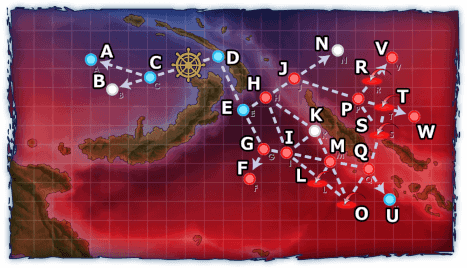
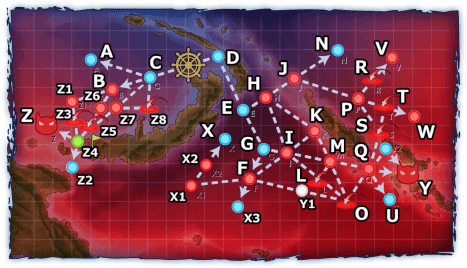
E5マス判定追加

diff --git a/js/data.js b/js/data.js
@@ -15,8 +15,8 @@ const PLANE_TYPE = [
 	{ id: 102, name: "陸軍戦闘機", abbr: "陸戦", css: "css_lb_fighter" },
 	{ id: 103, name: "局地戦闘機", abbr: "局戦", css: "css_lb_attack_aircraft" },
 	{ id: 104, name: "陸上偵察機", abbr: "陸偵", css: "css_cb_reconnaissance" },
-];
-const PLANE_DATA = [
+ ];
+ const PLANE_DATA = [
 	{ id: 19, type: 1, name: "九六式艦戦", abbr: "", fire: 0, antiAir: 3, torpedo: 0, bomber: 0, armor: 0, asw: 0, antiBomber: 0, interception: 0, scout: 0, canRemodel: 1, accuracy: 0, avoid2: 1, radius: 3, cost: 3, avoid: 0 },
 	{ id: 20, type: 1, name: "零式艦戦21型", abbr: "", fire: 0, antiAir: 5, torpedo: 0, bomber: 0, armor: 0, asw: 0, antiBomber: 0, interception: 0, scout: 0, canRemodel: 1, accuracy: 0, avoid2: 0, radius: 7, cost: 4, avoid: 0 },
 	{ id: 21, type: 1, name: "零式艦戦52型", abbr: "", fire: 0, antiAir: 6, torpedo: 0, bomber: 0, armor: 0, asw: 0, antiBomber: 0, interception: 0, scout: 0, canRemodel: 1, accuracy: 0, avoid2: 0, radius: 6, cost: 5, avoid: 0 },
@@ -178,8 +178,8 @@ const PLANE_DATA = [
 	{ id: 354, type: 103, name: "Fw190 D-9", abbr: "", fire: 2, antiAir: 12, torpedo: 0, bomber: 0, armor: 0, asw: 0, antiBomber: 3, interception: 3, scout: 0, canRemodel: 0, accuracy: 0, avoid2: 0, radius: 3, cost: 8, avoid: 0 },
 	{ id: 311, type: 104, name: "二式陸上偵察機", abbr: "", fire: 0, antiAir: 3, torpedo: 0, bomber: 0, armor: 0, asw: 0, antiBomber: 0, interception: 0, scout: 8, canRemodel: 0, accuracy: 2, avoid2: 0, radius: 8, cost: 7, avoid: 0 },
 	{ id: 312, type: 104, name: "二式陸上偵察機(熟練)", abbr: "", fire: 0, antiAir: 3, torpedo: 0, bomber: 0, armor: 1, asw: 0, antiBomber: 0, interception: 0, scout: 9, canRemodel: 1, accuracy: 3, avoid2: 0, radius: 9, cost: 7, avoid: 0 },
-];
-const SHIP_TYPE = [
+ ];
+ const SHIP_TYPE = [
 	{ id: 1, name: "正規空母" },
 	{ id: 2, name: "装甲空母" },
 	{ id: 3, name: "軽空母" },
@@ -200,8 +200,8 @@ const SHIP_TYPE = [
 	{ id: 18, name: "潜水艦" },
 	{ id: 19, name: "海防艦" },
 	{ id: 20, name: "工作艦" },
-];
-const SHIP_DATA = [
+ ];
+ const SHIP_DATA = [
 	{ id: 6, type: 1, name: "赤城", slot: [18, 18, 27, 10], final: 0, orig: 6, deckid: 83 },
 	{ id: 7, type: 1, name: "加賀", slot: [18, 18, 45, 12], final: 0, orig: 7, deckid: 84 },
 	{ id: 8, type: 1, name: "蒼龍", slot: [12, 27, 18, 7], final: 0, orig: 8, deckid: 90 },
@@ -352,8 +352,8 @@ const SHIP_DATA = [
 	{ id: 1501, type: 12, name: "伊19改", slot: [1, 1], final: 1, orig: 123, deckid: 401 },
 	{ id: 1503, type: 12, name: "伊401改", slot: [3, 3], final: 1, orig: 155, deckid: 403 },
 	{ id: 1506, type: 12, name: "伊400改", slot: [3, 3], final: 1, orig: 293, deckid: 606 },
-];
-const ENEMY_TYPE = [
+ ];
+ const ENEMY_TYPE = [
 	{ id: 11, name: "正規空母" },
 	{ id: 12, name: "軽空母" },
 	{ id: 13, name: "戦艦" },
@@ -367,8 +367,8 @@ const ENEMY_TYPE = [
 	{ id: 21, name: "浮遊/護衛 要塞" },
 	{ id: 1, name: "鬼/姫" },
 	{ id: 2, name: "地上施設" },
-];
-const ENEMY_DATA = [
+ ];
+ const ENEMY_DATA = [
 	{ id: -1, type: [11, 12, 13, 14, 15, 16, 17, 18, 19, 20, 21, 1, 2], name: "直接入力", slot: [], eqp: [], orig: -1, aaw: 0, aabo: 0 },
 	{ id: 1, type: [16], name: "駆逐イ級", slot: [], eqp: [], orig: 1, aaw: 4, aabo: 0 },
 	{ id: 2, type: [16], name: "駆逐ロ級", slot: [], eqp: [], orig: 2, aaw: 4, aabo: 0 },
@@ -704,8 +704,8 @@ const ENEMY_DATA = [
 	{ id: 476, type: [1, 11], name: "南太平洋空母棲姫-壊 [甲]", slot: [], eqp: [], orig: 0, aaw: 26, aabo: 4 },
 	{ id: 477, type: [1, 18], name: "潜水夏姫IIfragship", slot: [], eqp: [], orig: 477, aaw: 0, aabo: 0 },
 	{ id: 478, type: [1, 18], name: "潜水夏姫IIfragship", slot: [], eqp: [], orig: 478, aaw: 0, aabo: 0 },
-];
-const ENEMY_PLANE_DATA = [
+ ];
+ const ENEMY_PLANE_DATA = [
 	{ id: 519, type: 1, name: "深海棲艦戦", antiAir: 2, torpedo: 0, bomber: 0 },
 	{ id: 520, type: 1, name: "深海棲艦戦 Mark.II", antiAir: 5, torpedo: 0, bomber: 0 },
 	{ id: 521, type: 1, name: "深海棲艦戦 Mark.III", antiAir: 9, torpedo: 0, bomber: 0 },
@@ -744,15 +744,15 @@ const ENEMY_PLANE_DATA = [
 	{ id: 555, type: 6, name: "深海水上攻撃機改", antiAir: 9, torpedo: 0, bomber: 13 },
 	{ id: 571, type: 6, name: "深海水母小鬼機", antiAir: 11, torpedo: 0, bomber: 15 },
 	{ id: 573, type: 6, name: "深海潜水下駄履き", antiAir: 6, torpedo: 0, bomber: 18 },
-];
-const DIFFICULTY = [
+ ];
+ const DIFFICULTY = [
 	{ id: -1, name: "-" },
 	{ id: 0, name: "丁" },
 	{ id: 1, name: "丙" },
 	{ id: 2, name: "乙" },
 	{ id: 3, name: "甲" },
-];
-const WORLD_DATA = [
+ ];
+ const WORLD_DATA = [
 	{ world: 2006, name: "侵攻阻止！島嶼防衛強化作戦(2020梅雨イベ)" },
 	{ world: 1, name: "鎮守府海域" },
 	{ world: 2, name: "南西諸島海域" },
@@ -763,8 +763,8 @@ const WORLD_DATA = [
 	{ world: 6, name: "中部海域" },
 	{ world: 1911, name: "進撃！第二次作戦「南方作戦」(2019秋イベ)" },
 	{ world: 2003, name: "桃の節句！沖に立つ波(ミニ期間限定海域)" },
-];
-const MAP_DATA = [
+ ];
+ const MAP_DATA = [
 	{ area: 11, name: "鎮守府正面海域" },
 	{ area: 12, name: "南西諸島沖" },
 	{ area: 13, name: "製油所地帯沿岸" },
@@ -812,8 +812,8 @@ const MAP_DATA = [
 	{ area: 20065, name: "ニューブリテン島沖/ソロモン諸島西部沖" },
 	{ area: 20066, name: "ソロモン諸島沖" },
 	{ area: 20067, name: "ソロモン諸島沖" },
-];
-const ENEMY_PATTERN = [
+ ];
+ const ENEMY_PATTERN = [
 	{ a: 11, n: "A", d: "", l: -1, t: 1, f: 1, r: 0, e: [1], c: "219,112,246,149" },
 	{ a: 11, n: "A", d: "", l: -1, t: 1, f: 1, r: 0, e: [2], c: "219,112,246,149" },
 	{ a: 11, n: "A", d: "", l: -1, t: 1, f: 1, r: 0, e: [3], c: "219,112,246,149" },
@@ -2026,113 +2026,113 @@ const ENEMY_PATTERN = [
 	{ a: 20064, n: "空襲", d: "", l: 0, t: 5, f: 3, r: 1, e: [445, 28, 25, 24, 24, 94], c: "146, 185, 166, 205" },
 	{ a: 20064, n: "空襲", d: "", l: 0, t: 5, f: 3, r: 1, e: [445, 25, 25, 24, 24, 94], c: "146, 185, 166, 205" },
 	{ a: 20064, n: "空襲", d: "最終", l: 0, t: 5, f: 3, r: 1, e: [448, 28, 25, 29, 29, 95], c: "146, 185, 166, 205" },
-	{ a: 20065, n: "B", d: "", l: 3, t: 1, f: 1, r: 3, e: [54, 92, 92, 77, 77, 77], c: "" },
-	{ a: 20065, n: "B", d: "", l: 2, t: 1, f: 4, r: 3, e: [54, 91, 91, 77, 77, 1], c: "" },
-	{ a: 20065, n: "B", d: "", l: 1, t: 1, f: 4, r: 3, e: [54, 91, 77, 1, 1, 1], c: "" },
-	{ a: 20065, n: "B", d: "", l: 0, t: 1, f: 4, r: 3, e: [54, 77, 1, 1, 1, 1], c: "" },
-	{ a: 20065, n: "F", d: "", l: 3, t: 1, f: 4, r: 4, e: [72, 71, 71, 71], c: "" },
-	{ a: 20065, n: "F", d: "", l: 2, t: 1, f: 4, r: 4, e: [72, 71, 71], c: "" },
-	{ a: 20065, n: "F", d: "", l: 1, t: 1, f: 4, r: 4, e: [71, 71, 30], c: "" },
-	{ a: 20065, n: "F", d: "", l: 0, t: 1, f: 4, r: 4, e: [71, 70, 30], c: "" },
-	{ a: 20065, n: "H", d: "", l: 3, t: 1, f: 4, r: 2, e: [72, 71, 71, 71], c: "" },
-	{ a: 20065, n: "H", d: "", l: 2, t: 1, f: 4, r: 2, e: [72, 71, 71], c: "" },
-	{ a: 20065, n: "H", d: "", l: 1, t: 1, f: 4, r: 2, e: [71, 71, 30], c: "" },
-	{ a: 20065, n: "H", d: "", l: 0, t: 1, f: 4, r: 2, e: [71, 70, 30], c: "" },
-	{ a: 20065, n: "I", d: "", l: 3, t: 1, f: 4, r: 4, e: [72, 71, 71, 71], c: "" },
-	{ a: 20065, n: "I", d: "", l: 2, t: 1, f: 4, r: 4, e: [72, 71, 71], c: "" },
-	{ a: 20065, n: "I", d: "", l: 1, t: 1, f: 4, r: 4, e: [71, 71, 30], c: "" },
-	{ a: 20065, n: "I", d: "", l: 0, t: 1, f: 4, r: 4, e: [71, 70, 30], c: "" },
-	{ a: 20065, n: "J", d: "", l: 3, t: 1, f: 2, r: 3, e: [54, 59, 59, 92, 77, 77], c: "" },
-	{ a: 20065, n: "J", d: "", l: 2, t: 1, f: 2, r: 3, e: [54, 21, 21, 91, 77, 77], c: "" },
-	{ a: 20065, n: "J", d: "", l: 1, t: 1, f: 2, r: 3, e: [54, 21, 21, 91, 77, 1], c: "" },
-	{ a: 20065, n: "J", d: "", l: 0, t: 1, f: 2, r: 3, e: [54, 21, 21, 77, 1, 1], c: "" },
-	{ a: 20065, n: "K", d: "", l: 3, t: 1, f: 2, r: 4, e: [54, 77, 77, 76, 76, 76], c: "" },
-	{ a: 20065, n: "K", d: "", l: 2, t: 1, f: 2, r: 4, e: [54, 77, 76, 76, 1, 1], c: "" },
-	{ a: 20065, n: "K", d: "", l: 1, t: 1, f: 2, r: 4, e: [54, 76, 76, 1, 1], c: "" },
-	{ a: 20065, n: "K", d: "", l: 0, t: 1, f: 2, r: 4, e: [54, 76, 1, 1], c: "" },
-	{ a: 20065, n: "L", d: "", l: 3, t: 3, f: 3, r: 0, e: [152, 151, 151], c: "" },
-	{ a: 20065, n: "L", d: "", l: 3, t: 3, f: 3, r: 0, e: [151, 151, 150], c: "" },
-	{ a: 20065, n: "L", d: "", l: 2, t: 3, f: 3, r: 0, e: [151, 150], c: "" },
-	{ a: 20065, n: "L", d: "", l: 1, t: 3, f: 3, r: 0, e: [151, 150], c: "" },
-	{ a: 20065, n: "L", d: "", l: 0, t: 3, f: 3, r: 0, e: [150, 150], c: "" },
-	{ a: 20065, n: "M", d: "", l: 3, t: 1, f: 2, r: 0, e: [59, 59, 92, 77, 77, 1], c: "" },
-	{ a: 20065, n: "M", d: "", l: 2, t: 1, f: 2, r: 0, e: [21, 21, 91, 77, 77, 1], c: "" },
-	{ a: 20065, n: "M", d: "", l: 1, t: 1, f: 2, r: 0, e: [21, 21, 91, 77, 1, 1], c: "" },
-	{ a: 20065, n: "M", d: "", l: 0, t: 1, f: 2, r: 0, e: [21, 21, 77, 1, 1, 1], c: "" },
-	{ a: 20065, n: "O", d: "", l: 3, t: 3, f: 3, r: 6, e: [151, 151, 151], c: "" },
-	{ a: 20065, n: "O", d: "", l: 3, t: 3, f: 3, r: 6, e: [151, 151, 150], c: "" },
-	{ a: 20065, n: "O", d: "", l: 2, t: 3, f: 3, r: 6, e: [151, 150, 150], c: "" },
-	{ a: 20065, n: "O", d: "", l: 1, t: 3, f: 3, r: 6, e: [151, 150], c: "" },
-	{ a: 20065, n: "O", d: "", l: 0, t: 3, f: 3, r: 6, e: [150, 150], c: "" },
-	{ a: 20065, n: "P", d: "", l: 3, t: 1, f: 2, r: 5, e: [54, 92, 95, 95, 77, 77], c: "" },
-	{ a: 20065, n: "P", d: "", l: 2, t: 1, f: 2, r: 5, e: [54, 91, 94, 94, 77, 77], c: "" },
-	{ a: 20065, n: "P", d: "", l: 1, t: 1, f: 2, r: 5, e: [54, 91, 94, 76, 76, 1], c: "" },
-	{ a: 20065, n: "P", d: "", l: 0, t: 1, f: 2, r: 5, e: [54, 91, 76, 1, 1, 1], c: "" },
-	{ a: 20065, n: "Q", d: "", l: 3, t: 1, f: 4, r: 6, e: [55, 92, 54, 77, 77, 77], c: "" },
-	{ a: 20065, n: "Q", d: "", l: 2, t: 1, f: 4, r: 6, e: [55, 92, 18, 76, 76, 1], c: "" },
-	{ a: 20065, n: "Q", d: "", l: 1, t: 1, f: 4, r: 6, e: [19, 91, 18, 76, 76, 1], c: "" },
-	{ a: 20065, n: "Q", d: "", l: 0, t: 1, f: 4, r: 6, e: [19, 21, 21, 76, 1, 1], c: "" },
-	{ a: 20065, n: "R", d: "", l: 3, t: 3, f: 3, r: 6, e: [266, 266, 276, 362, 123, 123], c: "" },
-	{ a: 20065, n: "R", d: "", l: 3, t: 3, f: 3, r: 6, e: [266, 266, 405, 362, 123, 123], c: "" },
-	{ a: 20065, n: "R", d: "", l: 3, t: 3, f: 3, r: 6, e: [266, 276, 405, 362, 77, 77], c: "" },
-	{ a: 20065, n: "R", d: "", l: 2, t: 3, f: 3, r: 6, e: [265, 265, 55, 92, 77, 77], c: "" },
-	{ a: 20065, n: "R", d: "", l: 1, t: 3, f: 3, r: 6, e: [276, 276, 54, 91, 77, 77], c: "" },
-	{ a: 20065, n: "S", d: "", l: 3, t: 3, f: 3, r: 6, e: [151, 151, 150], c: "" },
-	{ a: 20065, n: "S", d: "", l: 1, t: 3, f: 3, r: 6, e: [151, 150], c: "" },
-	{ a: 20065, n: "S", d: "", l: 0, t: 3, f: 3, r: 6, e: [150, 150], c: "" },
-	{ a: 20065, n: "T", d: "", l: 3, t: 3, f: 3, r: 6, e: [266, 266, 276, 362, 123, 123], c: "" },
-	{ a: 20065, n: "T", d: "", l: 3, t: 3, f: 3, r: 6, e: [266, 266, 405, 362, 77, 77], c: "" },
-	{ a: 20065, n: "T", d: "", l: 3, t: 3, f: 3, r: 6, e: [266, 265, 405, 362, 77, 77], c: "" },
-	{ a: 20065, n: "T", d: "", l: 2, t: 3, f: 3, r: 6, e: [265, 276, 55, 92, 77, 77], c: "" },
-	{ a: 20065, n: "T", d: "", l: 1, t: 3, f: 3, r: 6, e: [276, 276, 54, 91, 77, 77], c: "" },
-	{ a: 20065, n: "T", d: "", l: 0, t: 3, f: 3, r: 6, e: [276, 23, 54, 91, 77, 1], c: "" },
-	{ a: 20065, n: "V", d: "", l: 3, t: 1, f: 3, r: 7, e: [266, 266, 405, 362, 123, 123], c: "" },
-	{ a: 20065, n: "V", d: "", l: 3, t: 1, f: 3, r: 7, e: [266, 265, 405, 362, 77, 77], c: "" },
-	{ a: 20065, n: "V", d: "", l: 2, t: 1, f: 3, r: 7, e: [265, 276, 55, 92, 77, 77], c: "" },
-	{ a: 20065, n: "V", d: "", l: 1, t: 1, f: 3, r: 7, e: [276, 276, 54, 91, 77, 77], c: "" },
-	{ a: 20065, n: "W", d: "", l: 3, t: 1, f: 3, r: 7, e: [266, 266, 405, 123, 123, 58], c: "" },
-	{ a: 20065, n: "W", d: "", l: 3, t: 1, f: 3, r: 7, e: [266, 265, 405, 77, 77, 58], c: "" },
-	{ a: 20065, n: "W", d: "", l: 2, t: 1, f: 3, r: 7, e: [265, 265, 55, 77, 77, 26], c: "" },
-	{ a: 20065, n: "W", d: "", l: 1, t: 1, f: 3, r: 7, e: [276, 276, 54, 77, 77, 26], c: "" },
-	{ a: 20065, n: "W", d: "", l: 0, t: 1, f: 3, r: 7, e: [276, 54, 77, 77, 1, 26], c: "" },
-	{ a: 20065, n: "X1", d: "", l: 3, t: 1, f: 4, r: 4, e: [72, 71, 71, 33, 33], c: "" },
-	{ a: 20065, n: "X1", d: "", l: 2, t: 1, f: 4, r: 4, e: [72, 71, 33, 33], c: "" },
-	{ a: 20065, n: "X1", d: "", l: 1, t: 1, f: 4, r: 4, e: [71, 33, 33, 30], c: "" },
-	{ a: 20065, n: "X1", d: "", l: 0, t: 1, f: 4, r: 4, e: [71, 30, 1, 1], c: "" },
-	{ a: 20065, n: "X2", d: "", l: 3, t: 1, f: 4, r: 3, e: [308, 72, 33, 33, 33], c: "" },
-	{ a: 20065, n: "X2", d: "", l: 2, t: 1, f: 4, r: 3, e: [307, 71, 33, 30], c: "" },
-	{ a: 20065, n: "X2", d: "", l: 1, t: 1, f: 4, r: 3, e: [306, 33, 33, 30, 30], c: "" },
-	{ a: 20065, n: "X2", d: "", l: 0, t: 1, f: 4, r: 3, e: [306, 30, 30], c: "" },
-	{ a: 20065, n: "Y", d: "前哨", l: 3, t: 1, f: 1, r: 7, e: [460, 55, 92, 451, 77, 77], c: "" },
-	{ a: 20065, n: "Y", d: "最終", l: 3, t: 1, f: 1, r: 7, e: [460, 55, 92, 92, 451, 451], c: "" },
-	{ a: 20065, n: "Y", d: "前哨", l: 2, t: 1, f: 1, r: 7, e: [459, 55, 91, 77, 77, 1], c: "" },
-	{ a: 20065, n: "Y", d: "最終", l: 2, t: 1, f: 1, r: 7, e: [459, 55, 91, 451, 77, 77], c: "" },
-	{ a: 20065, n: "Y", d: "前哨", l: 1, t: 1, f: 1, r: 7, e: [458, 55, 91, 77, 1, 1], c: "" },
-	{ a: 20065, n: "Y", d: "最終", l: 1, t: 1, f: 1, r: 7, e: [458, 55, 91, 77, 77, 1], c: "" },
-	{ a: 20065, n: "Y", d: "前哨", l: 0, t: 1, f: 1, r: 7, e: [457, 91, 76, 1, 1, 1], c: "" },
-	{ a: 20065, n: "Y", d: "最終", l: 0, t: 1, f: 1, r: 7, e: [457, 19, 76, 1, 1, 1], c: "" },
-	{ a: 20065, n: "Z", d: "", l: 3, t: 1, f: 1, r: 5, e: [456, 92, 451, 123, 123], c: "" },
-	{ a: 20065, n: "Z", d: "", l: 3, t: 1, f: 1, r: 5, e: [456, 92, 123, 77, 77], c: "" },
-	{ a: 20065, n: "Z", d: "", l: 2, t: 1, f: 1, r: 5, e: [455, 92, 77, 77, 77], c: "" },
-	{ a: 20065, n: "Z", d: "", l: 1, t: 1, f: 1, r: 5, e: [454, 91, 77, 77, 1], c: "" },
-	{ a: 20065, n: "Z", d: "", l: 0, t: 1, f: 1, r: 5, e: [453, 91, 77, 1, 1], c: "" },
-	{ a: 20065, n: "Z1", d: "", l: 3, t: 1, f: 1, r: 4, e: [54, 27, 27, 91, 77, 77], c: "" },
-	{ a: 20065, n: "Z1", d: "", l: 0, t: 1, f: 2, r: 4, e: [22, 91, 76, 1, 1, 1], c: "" },
-	{ a: 20065, n: "Z3", d: "", l: 3, t: 3, f: 3, r: 4, e: [151, 151, 150], c: "" },
-	{ a: 20065, n: "Z3", d: "", l: 3, t: 3, f: 3, r: 4, e: [151, 150, 150], c: "" },
-	{ a: 20065, n: "Z3", d: "", l: 0, t: 3, f: 3, r: 4, e: [150, 150], c: "" },
-	{ a: 20065, n: "Z5", d: "", l: 3, t: 3, f: 3, r: 4, e: [152, 151, 151], c: "" },
-	{ a: 20065, n: "Z5", d: "", l: 3, t: 3, f: 3, r: 4, e: [151, 151, 150], c: "" },
-	{ a: 20065, n: "Z5", d: "", l: 3, t: 3, f: 3, r: 4, e: [151, 150, 150], c: "" },
-	{ a: 20065, n: "Z5", d: "", l: 2, t: 3, f: 3, r: 4, e: [151, 150, 150], c: "" },
-	{ a: 20065, n: "Z5", d: "", l: 1, t: 3, f: 3, r: 4, e: [151, 150], c: "" },
-	{ a: 20065, n: "Z5", d: "", l: 0, t: 3, f: 3, r: 4, e: [150, 150], c: "" },
-	{ a: 20065, n: "Z6", d: "", l: 3, t: 1, f: 2, r: 4, e: [54, 92, 77, 77], c: "" },
-	{ a: 20065, n: "Z6", d: "", l: 2, t: 1, f: 2, r: 4, e: [54, 91, 77, 1], c: "" },
-	{ a: 20065, n: "Z6", d: "", l: 1, t: 1, f: 2, r: 4, e: [91, 76, 76, 1], c: "" },
-	{ a: 20065, n: "Z6", d: "", l: 0, t: 1, f: 2, r: 4, e: [18, 76, 1, 1], c: "" },
-	{ a: 20065, n: "Z7", d: "", l: 3, t: 1, f: 2, r: 4, e: [54, 92, 77, 77], c: "" },
-	{ a: 20065, n: "Z8", d: "", l: 3, t: 3, f: 3, r: 3, e: [151, 151, 151], c: "" },
+	{ a: 20065, n: "B", d: "", l: 3, t: 1, f: 1, r: 3, e: [54, 92, 92, 77, 77, 77], c: "101, 77, 121, 97" },
+	{ a: 20065, n: "B", d: "", l: 2, t: 1, f: 4, r: 3, e: [54, 91, 91, 77, 77, 1], c: "101, 77, 121, 97" },
+	{ a: 20065, n: "B", d: "", l: 1, t: 1, f: 4, r: 3, e: [54, 91, 77, 1, 1, 1], c: "101, 77, 121, 97" },
+	{ a: 20065, n: "B", d: "", l: 0, t: 1, f: 4, r: 3, e: [54, 77, 1, 1, 1, 1], c: "101, 77, 121, 97" },
+	{ a: 20065, n: "F", d: "", l: 3, t: 1, f: 4, r: 4, e: [72, 71, 71, 71], c: "239, 166, 259, 186" },
+	{ a: 20065, n: "F", d: "", l: 2, t: 1, f: 4, r: 4, e: [72, 71, 71], c: "239, 166, 259, 186" },
+	{ a: 20065, n: "F", d: "", l: 1, t: 1, f: 4, r: 4, e: [71, 71, 30], c: "239, 166, 259, 186" },
+	{ a: 20065, n: "F", d: "", l: 0, t: 1, f: 4, r: 4, e: [71, 70, 30], c: "239, 166, 259, 186" },
+	{ a: 20065, n: "H", d: "", l: 3, t: 1, f: 4, r: 2, e: [72, 71, 71, 71], c: "254, 85, 274, 105" },
+	{ a: 20065, n: "H", d: "", l: 2, t: 1, f: 4, r: 2, e: [72, 71, 71], c: "254, 85, 274, 105" },
+	{ a: 20065, n: "H", d: "", l: 1, t: 1, f: 4, r: 2, e: [71, 71, 30], c: "254, 85, 274, 105" },
+	{ a: 20065, n: "H", d: "", l: 0, t: 1, f: 4, r: 2, e: [71, 70, 30], c: "254, 85, 274, 105" },
+	{ a: 20065, n: "I", d: "", l: 3, t: 1, f: 4, r: 4, e: [72, 71, 71, 71], c: "275, 140, 295, 160" },
+	{ a: 20065, n: "I", d: "", l: 2, t: 1, f: 4, r: 4, e: [72, 71, 71], c: "275, 140, 295, 160" },
+	{ a: 20065, n: "I", d: "", l: 1, t: 1, f: 4, r: 4, e: [71, 71, 30], c: "275, 140, 295, 160" },
+	{ a: 20065, n: "I", d: "", l: 0, t: 1, f: 4, r: 4, e: [71, 70, 30], c: "275, 140, 295, 160" },
+	{ a: 20065, n: "J", d: "", l: 3, t: 1, f: 2, r: 3, e: [54, 59, 59, 92, 77, 77], c: "284, 66, 304, 86" },
+	{ a: 20065, n: "J", d: "", l: 2, t: 1, f: 2, r: 3, e: [54, 21, 21, 91, 77, 77], c: "284, 66, 304, 86" },
+	{ a: 20065, n: "J", d: "", l: 1, t: 1, f: 2, r: 3, e: [54, 21, 21, 91, 77, 1], c: "284, 66, 304, 86" },
+	{ a: 20065, n: "J", d: "", l: 0, t: 1, f: 2, r: 3, e: [54, 21, 21, 77, 1, 1], c: "284, 66, 304, 86" },
+	{ a: 20065, n: "K", d: "", l: 3, t: 1, f: 2, r: 4, e: [54, 77, 77, 76, 76, 76], c: "304, 118, 324, 138" },
+	{ a: 20065, n: "K", d: "", l: 2, t: 1, f: 2, r: 4, e: [54, 77, 76, 76, 1, 1], c: "304, 118, 324, 138" },
+	{ a: 20065, n: "K", d: "", l: 1, t: 1, f: 2, r: 4, e: [54, 76, 76, 1, 1], c: "304, 118, 324, 138" },
+	{ a: 20065, n: "K", d: "", l: 0, t: 1, f: 2, r: 4, e: [54, 76, 1, 1], c: "304, 118, 324, 138" },
+	{ a: 20065, n: "L", d: "", l: 3, t: 3, f: 3, r: 0, e: [152, 151, 151], c: "306, 166, 326, 186" },
+	{ a: 20065, n: "L", d: "", l: 3, t: 3, f: 3, r: 0, e: [151, 151, 150], c: "306, 166, 326, 186" },
+	{ a: 20065, n: "L", d: "", l: 2, t: 3, f: 3, r: 0, e: [151, 150], c: "306, 166, 326, 186" },
+	{ a: 20065, n: "L", d: "", l: 1, t: 3, f: 3, r: 0, e: [151, 150], c: "306, 166, 326, 186" },
+	{ a: 20065, n: "L", d: "", l: 0, t: 3, f: 3, r: 0, e: [150, 150], c: "306, 166, 326, 186" },
+	{ a: 20065, n: "M", d: "", l: 3, t: 1, f: 2, r: 0, e: [59, 59, 92, 77, 77, 1], c: "319, 149, 339, 169" },
+	{ a: 20065, n: "M", d: "", l: 2, t: 1, f: 2, r: 0, e: [21, 21, 91, 77, 77, 1], c: "319, 149, 339, 169" },
+	{ a: 20065, n: "M", d: "", l: 1, t: 1, f: 2, r: 0, e: [21, 21, 91, 77, 1, 1], c: "319, 149, 339, 169" },
+	{ a: 20065, n: "M", d: "", l: 0, t: 1, f: 2, r: 0, e: [21, 21, 77, 1, 1, 1], c: "319, 149, 339, 169" },
+	{ a: 20065, n: "O", d: "", l: 3, t: 3, f: 3, r: 6, e: [151, 151, 151], c: "336, 190, 356, 210" },
+	{ a: 20065, n: "O", d: "", l: 3, t: 3, f: 3, r: 6, e: [151, 151, 150], c: "336, 190, 356, 210" },
+	{ a: 20065, n: "O", d: "", l: 2, t: 3, f: 3, r: 6, e: [151, 150, 150], c: "336, 190, 356, 210" },
+	{ a: 20065, n: "O", d: "", l: 1, t: 3, f: 3, r: 6, e: [151, 150], c: "336, 190, 356, 210" },
+	{ a: 20065, n: "O", d: "", l: 0, t: 3, f: 3, r: 6, e: [150, 150], c: "336, 190, 356, 210" },
+	{ a: 20065, n: "P", d: "", l: 3, t: 1, f: 2, r: 5, e: [54, 92, 95, 95, 77, 77], c: "348, 86, 368, 106" },
+	{ a: 20065, n: "P", d: "", l: 2, t: 1, f: 2, r: 5, e: [54, 91, 94, 94, 77, 77], c: "348, 86, 368, 106" },
+	{ a: 20065, n: "P", d: "", l: 1, t: 1, f: 2, r: 5, e: [54, 91, 94, 76, 76, 1], c: "348, 86, 368, 106" },
+	{ a: 20065, n: "P", d: "", l: 0, t: 1, f: 2, r: 5, e: [54, 91, 76, 1, 1, 1], c: "348, 86, 368, 106" },
+	{ a: 20065, n: "Q", d: "", l: 3, t: 1, f: 4, r: 6, e: [55, 92, 54, 77, 77, 77], c: "357, 156, 377, 176" },
+	{ a: 20065, n: "Q", d: "", l: 2, t: 1, f: 4, r: 6, e: [55, 92, 18, 76, 76, 1], c: "357, 156, 377, 176" },
+	{ a: 20065, n: "Q", d: "", l: 1, t: 1, f: 4, r: 6, e: [19, 91, 18, 76, 76, 1], c: "357, 156, 377, 176" },
+	{ a: 20065, n: "Q", d: "", l: 0, t: 1, f: 4, r: 6, e: [19, 21, 21, 76, 1, 1], c: "357, 156, 377, 176" },
+	{ a: 20065, n: "R", d: "", l: 3, t: 3, f: 3, r: 6, e: [266, 266, 276, 362, 123, 123], c: "362, 65, 382, 85" },
+	{ a: 20065, n: "R", d: "", l: 3, t: 3, f: 3, r: 6, e: [266, 266, 405, 362, 123, 123], c: "362, 65, 382, 85" },
+	{ a: 20065, n: "R", d: "", l: 3, t: 3, f: 3, r: 6, e: [266, 276, 405, 362, 77, 77], c: "362, 65, 382, 85" },
+	{ a: 20065, n: "R", d: "", l: 2, t: 3, f: 3, r: 6, e: [265, 265, 55, 92, 77, 77], c: "362, 65, 382, 85" },
+	{ a: 20065, n: "R", d: "", l: 1, t: 3, f: 3, r: 6, e: [276, 276, 54, 91, 77, 77], c: "362, 65, 382, 85" },
+	{ a: 20065, n: "S", d: "", l: 3, t: 3, f: 3, r: 6, e: [151, 151, 150], c: "369, 118, 389, 138" },
+	{ a: 20065, n: "S", d: "", l: 1, t: 3, f: 3, r: 6, e: [151, 150], c: "369, 118, 389, 138" },
+	{ a: 20065, n: "S", d: "", l: 0, t: 3, f: 3, r: 6, e: [150, 150], c: "369, 118, 389, 138" },
+	{ a: 20065, n: "T", d: "", l: 3, t: 3, f: 3, r: 6, e: [266, 266, 276, 362, 123, 123], c: "374, 91, 394, 111" },
+	{ a: 20065, n: "T", d: "", l: 3, t: 3, f: 3, r: 6, e: [266, 266, 405, 362, 77, 77], c: "374, 91, 394, 111" },
+	{ a: 20065, n: "T", d: "", l: 3, t: 3, f: 3, r: 6, e: [266, 265, 405, 362, 77, 77], c: "374, 91, 394, 111" },
+	{ a: 20065, n: "T", d: "", l: 2, t: 3, f: 3, r: 6, e: [265, 276, 55, 92, 77, 77], c: "374, 91, 394, 111" },
+	{ a: 20065, n: "T", d: "", l: 1, t: 3, f: 3, r: 6, e: [276, 276, 54, 91, 77, 77], c: "374, 91, 394, 111" },
+	{ a: 20065, n: "T", d: "", l: 0, t: 3, f: 3, r: 6, e: [276, 23, 54, 91, 77, 1], c: "374, 91, 394, 111" },
+	{ a: 20065, n: "V", d: "", l: 3, t: 1, f: 3, r: 7, e: [266, 266, 405, 362, 123, 123], c: "381, 45, 401, 65" },
+	{ a: 20065, n: "V", d: "", l: 3, t: 1, f: 3, r: 7, e: [266, 265, 405, 362, 77, 77], c: "381, 45, 401, 65" },
+	{ a: 20065, n: "V", d: "", l: 2, t: 1, f: 3, r: 7, e: [265, 276, 55, 92, 77, 77], c: "381, 45, 401, 65" },
+	{ a: 20065, n: "V", d: "", l: 1, t: 1, f: 3, r: 7, e: [276, 276, 54, 91, 77, 77], c: "381, 45, 401, 65" },
+	{ a: 20065, n: "W", d: "", l: 3, t: 1, f: 3, r: 7, e: [266, 266, 405, 123, 123, 58], c: "404, 103, 424, 123" },
+	{ a: 20065, n: "W", d: "", l: 3, t: 1, f: 3, r: 7, e: [266, 265, 405, 77, 77, 58], c: "404, 103, 424, 123" },
+	{ a: 20065, n: "W", d: "", l: 2, t: 1, f: 3, r: 7, e: [265, 265, 55, 77, 77, 26], c: "404, 103, 424, 123" },
+	{ a: 20065, n: "W", d: "", l: 1, t: 1, f: 3, r: 7, e: [276, 276, 54, 77, 77, 26], c: "404, 103, 424, 123" },
+	{ a: 20065, n: "W", d: "", l: 0, t: 1, f: 3, r: 7, e: [276, 54, 77, 77, 1, 26], c: "404, 103, 424, 123" },
+	{ a: 20065, n: "X1", d: "", l: 3, t: 1, f: 4, r: 4, e: [72, 71, 71, 33, 33], c: "180, 173, 200, 193" },
+	{ a: 20065, n: "X1", d: "", l: 2, t: 1, f: 4, r: 4, e: [72, 71, 33, 33], c: "180, 173, 200, 193" },
+	{ a: 20065, n: "X1", d: "", l: 1, t: 1, f: 4, r: 4, e: [71, 33, 33, 30], c: "180, 173, 200, 193" },
+	{ a: 20065, n: "X1", d: "", l: 0, t: 1, f: 4, r: 4, e: [71, 30, 1, 1], c: "180, 173, 200, 193" },
+	{ a: 20065, n: "X2", d: "", l: 3, t: 1, f: 4, r: 3, e: [308, 72, 33, 33, 33], c: "196, 153, 216, 173" },
+	{ a: 20065, n: "X2", d: "", l: 2, t: 1, f: 4, r: 3, e: [307, 71, 33, 30], c: "196, 153, 216, 173" },
+	{ a: 20065, n: "X2", d: "", l: 1, t: 1, f: 4, r: 3, e: [306, 33, 33, 30, 30], c: "196, 153, 216, 173" },
+	{ a: 20065, n: "X2", d: "", l: 0, t: 1, f: 4, r: 3, e: [306, 30, 30], c: "196, 153, 216, 173" },
+	{ a: 20065, n: "Y", d: "前哨", l: 3, t: 1, f: 1, r: 7, e: [460, 55, 92, 451, 77, 77], c: "397, 162, 417, 182" },
+	{ a: 20065, n: "Y", d: "最終", l: 3, t: 1, f: 1, r: 7, e: [460, 55, 92, 92, 451, 451], c: "397, 162, 417, 182" },
+	{ a: 20065, n: "Y", d: "前哨", l: 2, t: 1, f: 1, r: 7, e: [459, 55, 91, 77, 77, 1], c: "397, 162, 417, 182" },
+	{ a: 20065, n: "Y", d: "最終", l: 2, t: 1, f: 1, r: 7, e: [459, 55, 91, 451, 77, 77], c: "397, 162, 417, 182" },
+	{ a: 20065, n: "Y", d: "前哨", l: 1, t: 1, f: 1, r: 7, e: [458, 55, 91, 77, 1, 1], c: "397, 162, 417, 182" },
+	{ a: 20065, n: "Y", d: "最終", l: 1, t: 1, f: 1, r: 7, e: [458, 55, 91, 77, 77, 1], c: "397, 162, 417, 182" },
+	{ a: 20065, n: "Y", d: "前哨", l: 0, t: 1, f: 1, r: 7, e: [457, 91, 76, 1, 1, 1], c: "397, 162, 417, 182" },
+	{ a: 20065, n: "Y", d: "最終", l: 0, t: 1, f: 1, r: 7, e: [457, 19, 76, 1, 1, 1], c: "397, 162, 417, 182" },
+	{ a: 20065, n: "Z", d: "", l: 3, t: 1, f: 1, r: 5, e: [456, 92, 451, 123, 123], c: "35, 112, 52, 132" },
+	{ a: 20065, n: "Z", d: "", l: 3, t: 1, f: 1, r: 5, e: [456, 92, 123, 77, 77], c: "35, 112, 52, 132" },
+	{ a: 20065, n: "Z", d: "", l: 2, t: 1, f: 1, r: 5, e: [455, 92, 77, 77, 77], c: "35, 112, 52, 132" },
+	{ a: 20065, n: "Z", d: "", l: 1, t: 1, f: 1, r: 5, e: [454, 91, 77, 77, 1], c: "35, 112, 52, 132" },
+	{ a: 20065, n: "Z", d: "", l: 0, t: 1, f: 1, r: 5, e: [453, 91, 77, 1, 1], c: "35, 112, 52, 132" },
+	{ a: 20065, n: "Z1", d: "", l: 3, t: 1, f: 1, r: 4, e: [54, 27, 27, 91, 77, 77], c: "61, 88, 81, 108" },
+	{ a: 20065, n: "Z1", d: "", l: 0, t: 1, f: 2, r: 4, e: [22, 91, 76, 1, 1, 1], c: "61, 88, 81, 108" },
+	{ a: 20065, n: "Z3", d: "", l: 3, t: 3, f: 3, r: 4, e: [151, 151, 150], c: "62, 106, 82, 126" },
+	{ a: 20065, n: "Z3", d: "", l: 3, t: 3, f: 3, r: 4, e: [151, 150, 150], c: "62, 106, 82, 126" },
+	{ a: 20065, n: "Z3", d: "", l: 0, t: 3, f: 3, r: 4, e: [150, 150], c: "62, 106, 82, 126" },
+	{ a: 20065, n: "Z5", d: "", l: 3, t: 3, f: 3, r: 4, e: [152, 151, 151], c: "81, 111, 101, 131" },
+	{ a: 20065, n: "Z5", d: "", l: 3, t: 3, f: 3, r: 4, e: [151, 151, 150], c: "81, 111, 101, 131" },
+	{ a: 20065, n: "Z5", d: "", l: 3, t: 3, f: 3, r: 4, e: [151, 150, 150], c: "81, 111, 101, 131" },
+	{ a: 20065, n: "Z5", d: "", l: 2, t: 3, f: 3, r: 4, e: [151, 150, 150], c: "81, 111, 101, 131" },
+	{ a: 20065, n: "Z5", d: "", l: 1, t: 3, f: 3, r: 4, e: [151, 150], c: "81, 111, 101, 131" },
+	{ a: 20065, n: "Z5", d: "", l: 0, t: 3, f: 3, r: 4, e: [150, 150], c: "81, 111, 101, 131" },
+	{ a: 20065, n: "Z6", d: "", l: 3, t: 1, f: 2, r: 4, e: [54, 92, 77, 77], c: "89, 94, 109, 114" },
+	{ a: 20065, n: "Z6", d: "", l: 2, t: 1, f: 2, r: 4, e: [54, 91, 77, 1], c: "89, 94, 109, 114" },
+	{ a: 20065, n: "Z6", d: "", l: 1, t: 1, f: 2, r: 4, e: [91, 76, 76, 1], c: "89, 94, 109, 114" },
+	{ a: 20065, n: "Z6", d: "", l: 0, t: 1, f: 2, r: 4, e: [18, 76, 1, 1], c: "89, 94, 109, 114" },
+	{ a: 20065, n: "Z7", d: "", l: 3, t: 1, f: 2, r: 4, e: [54, 92, 77, 77], c: "106, 95, 126, 115" },
+	{ a: 20065, n: "Z8", d: "", l: 3, t: 3, f: 3, r: 3, e: [151, 151, 151], c: "139, 93, 159, 113" },
 	{ a: 20065, n: "空襲", d: "", l: 3, t: 5, f: 3, r: 0, e: [152, 152, 151], c: "" },
 	{ a: 20065, n: "空襲", d: "", l: 3, t: 5, f: 3, r: 0, e: [152, 151, 151], c: "" },
 	{ a: 20065, n: "空襲", d: "", l: 3, t: 5, f: 3, r: 0, e: [151, 151, 151], c: "" },
@@ -2159,12 +2159,13 @@ const ENEMY_PATTERN = [
 	{ a: 20066, n: "V", d: "", l: 3, t: 2, f: 11, r: 6, e: [280, 280, 456, 43, 43, 58, 55, 92, 123, 77, 77, 77], c: "" },
 	{ a: 20066, n: "X", d: "前哨", l: 3, t: 2, f: 11, r: 6, e: [181, 423, 423, 167, 140, 140, 55, 92, 123, 123, 26, 26], c: "" },
 	{ a: 20066, n: "X", d: "最終", l: 3, t: 2, f: 11, r: 6, e: [181, 426, 426, 167, 140, 140, 405, 362, 451, 451, 26, 26], c: "" },
-	{ a: 20066, n: "Z", d: "", l: 3, t: 2, f: 11, r: 7, e: [467, 198, 456, 456, 362, 405, 55, 92, 451, 451, 240, 240], c: "" },
+	{ a: 20066, n: "Z", d: "前哨", l: 3, t: 2, f: 11, r: 7, e: [467, 198, 456, 456, 362, 405, 55, 92, 451, 451, 240, 240], c: "" },
+	{ a: 20066, n: "Z", d: "最終", l: 3, t: 2, f: 11, r: 7, e: [470, 198, 198, 456, 456, 362, 405, 92, 451, 451, 451, 451], c: "" },
 	{ a: 20066, n: "空襲", d: "", l: 3, t: 5, f: 3, r: 0, e: [183, 152, 152, 151], c: "" },
 	{ a: 20066, n: "空襲", d: "", l: 3, t: 5, f: 3, r: 0, e: [183, 152, 151, 151], c: "" },
 	{ a: 20066, n: "空襲", d: "", l: 3, t: 5, f: 3, r: 0, e: [183, 151, 151, 151], c: "" },
 	{ a: 20066, n: "空襲", d: "", l: 3, t: 5, f: 3, r: 0, e: [183, 151, 151], c: "" },
-];
+ ];
 // 制空状態
 const AIR_STATUS = [
 	{ id: 0, name: "制空権確保", abbr: "確保", rate: 10 },
